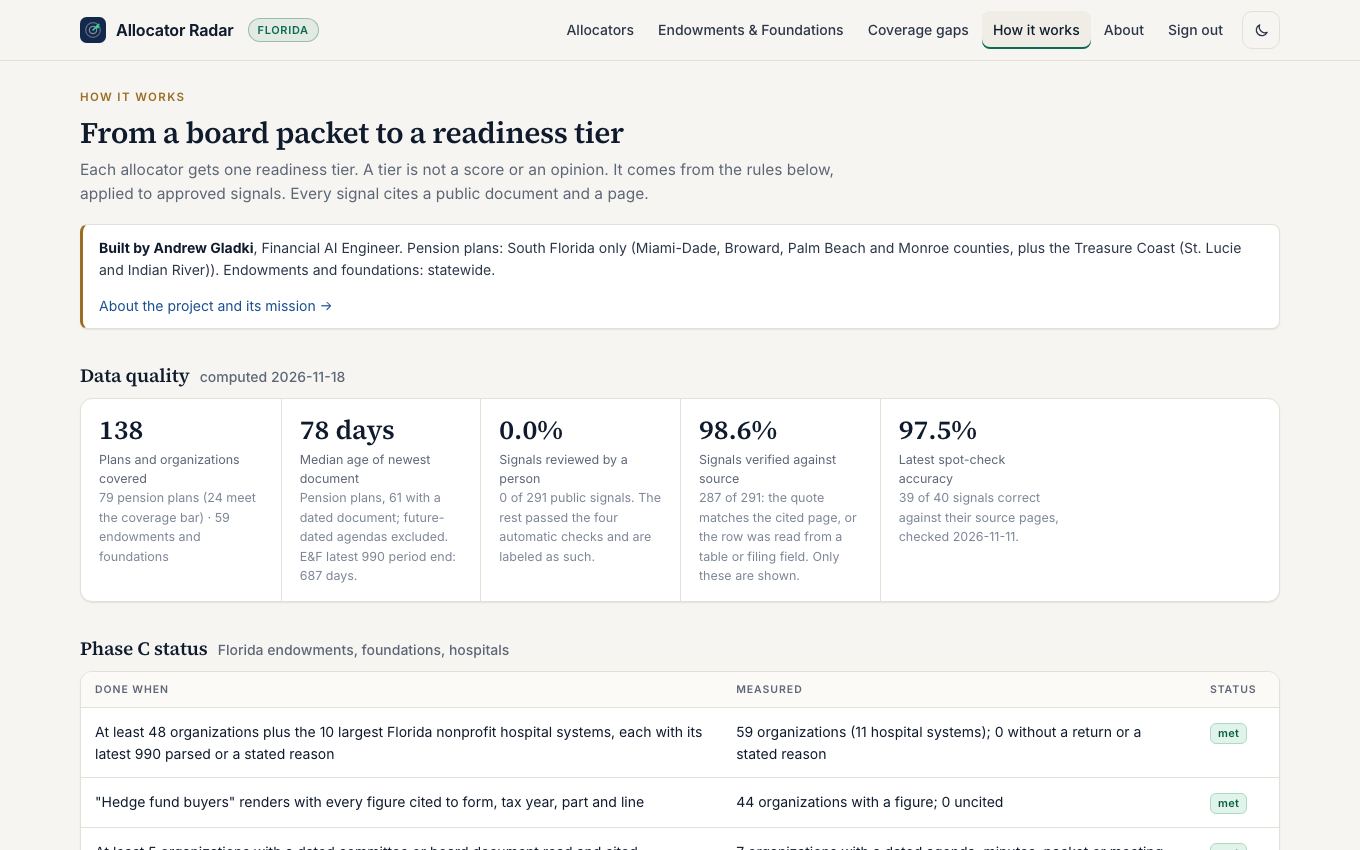
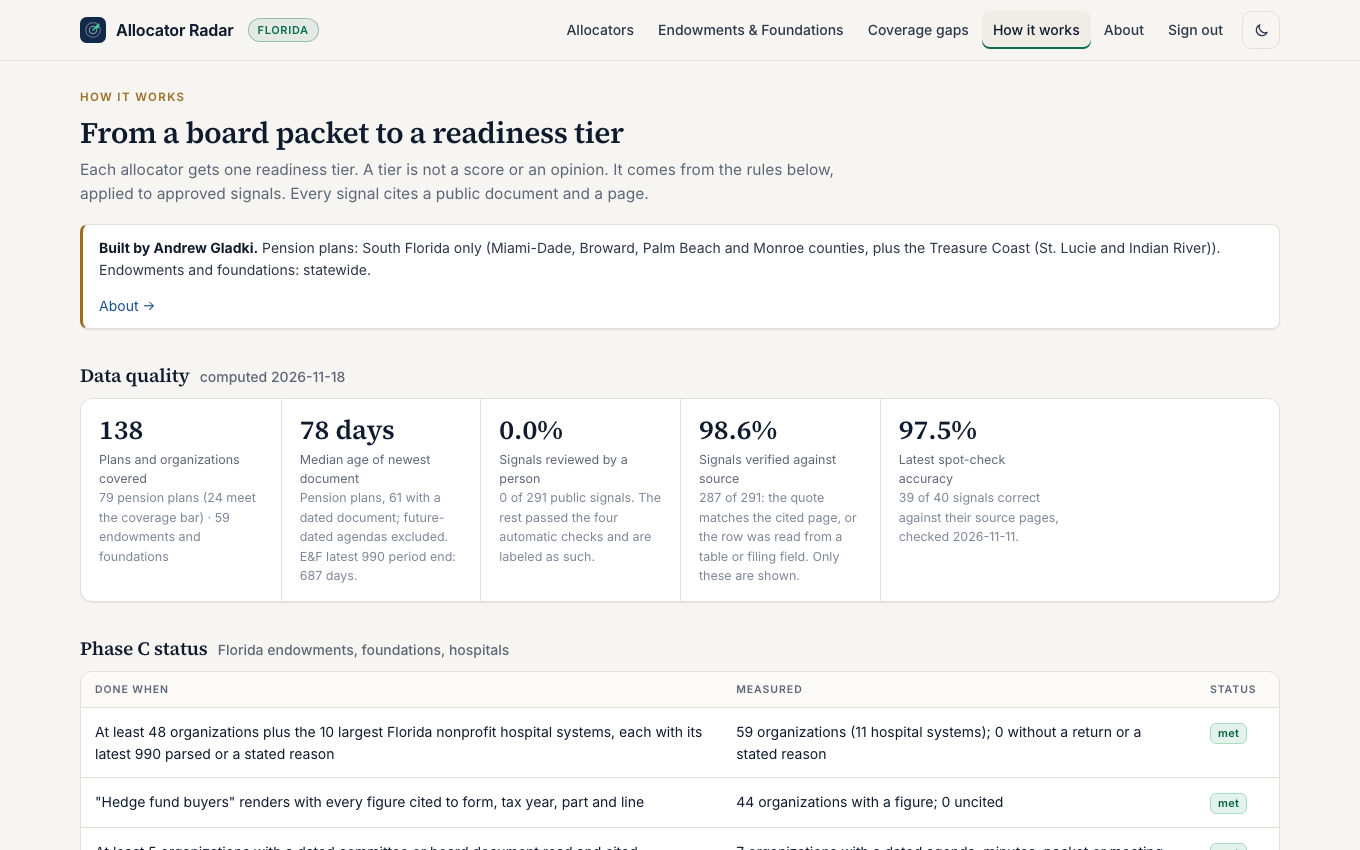
Drop job title; refresh screenshots

Changed region(s): [[0.0618, 0.2753, 0.9265, 0.3671]]

diff --git a/README.md b/README.md
@@ -126,7 +126,7 @@ language-model backend for extraction, and Cloudflare Workers for the published 
 
 ## Built by
 
-**Andrew Gladki**, Financial AI Engineer. I want to work on the institutional business development team of a large
+**Andrew Gladki.** I want to work on the institutional business development team of a large
 financial institution. This project shows what I would bring: AI engineering, data analytics, an understanding of
 how institutional capital moves, and the ability to take a complex, open-ended problem to an accurate, working
 solution quickly.
